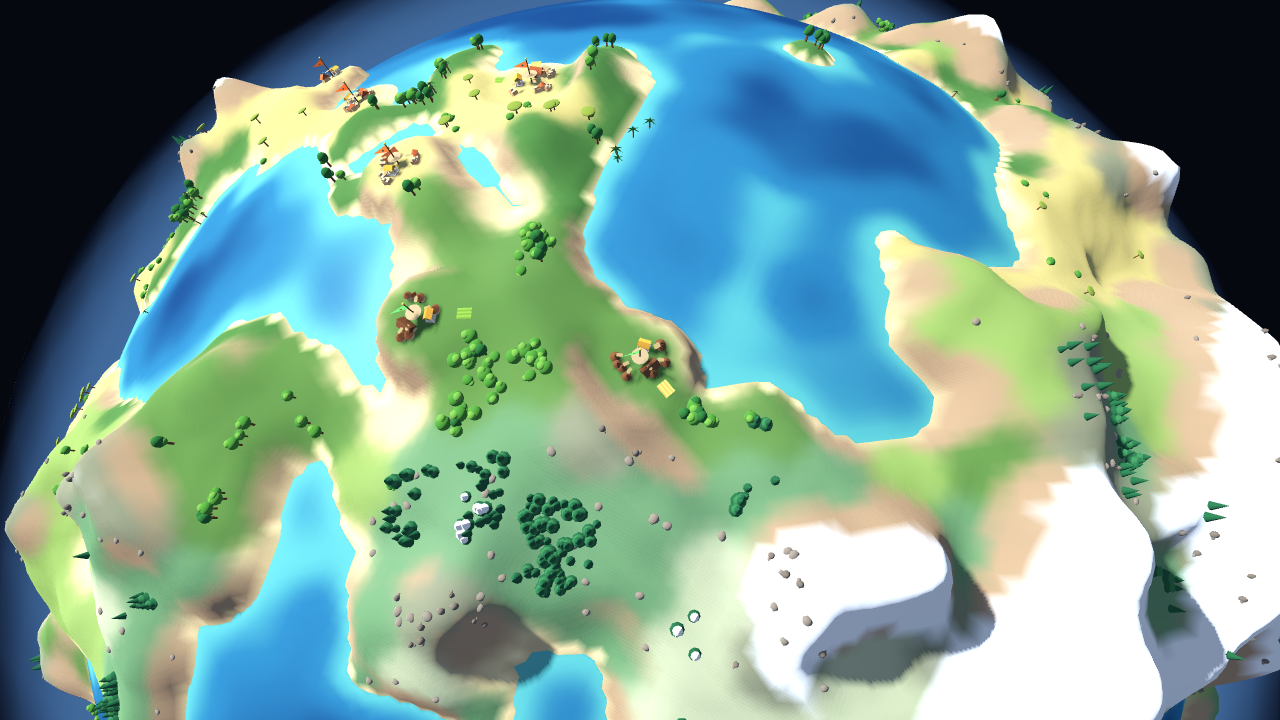
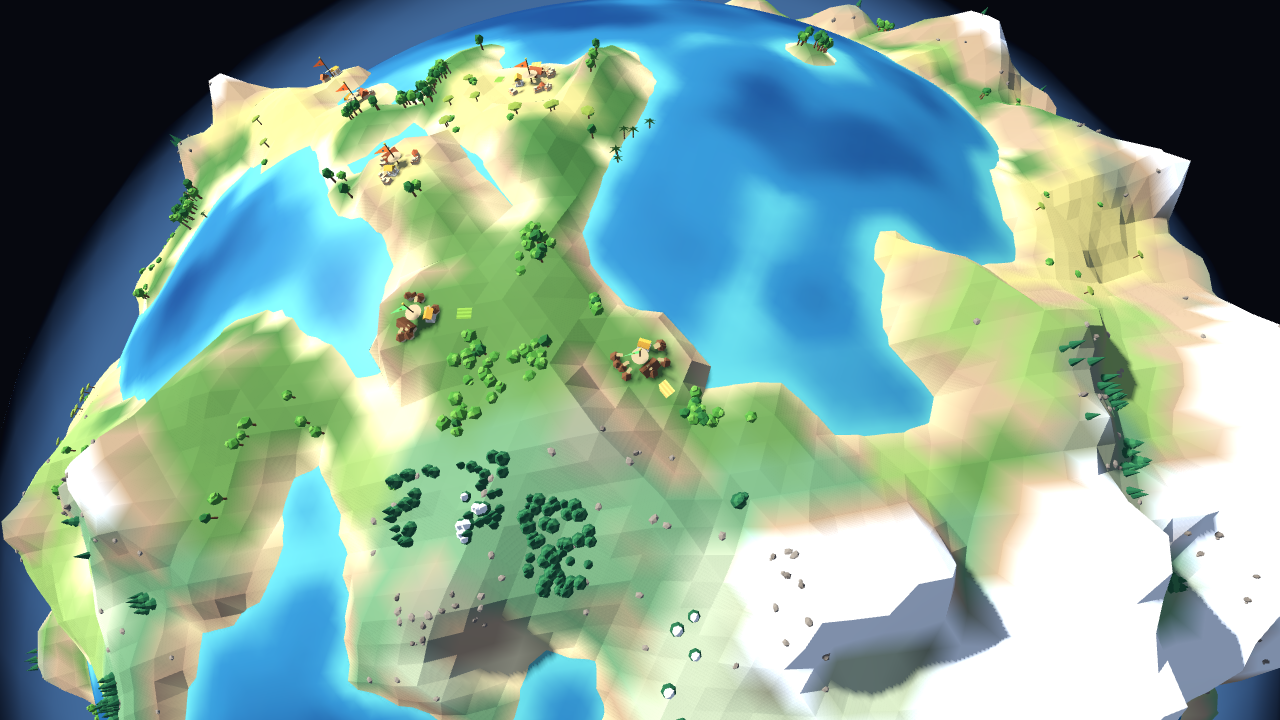
Direction artistique v4 : low poly stylisé à facettes franches
- Terre dessinée en grands plans (grille 2x plus large, normale par face),
  couleurs continues par sommet : facettes révélées par la lumière, sans mosaïque
- Lissage réduit, crêtes et sommets plus marqués ; terrasses et côtes conservées
- Arbres, rochers et bâtiments en volumes à faces planes, couleur unie par volume
- Eau lisse pour contraster avec les terres
- Comparaisons avant/après au même cadrage dans docs/captures/facettes_*.png
- Primitives de près : 443 k -> 188 k

Claude-Session: https://claude.ai/code/session_019WmNfXq92PPpko7xosD6fb

diff --git a/docs/ART_DIRECTION.md b/docs/ART_DIRECTION.md
@@ -1,7 +1,11 @@
 # Direction artistique
 
-Référence d'intention : la douceur des formes et la lisibilité des paysages de *Godus*, appliquées à notre
-planète sphérique et à notre univers d'épée et de magie. Le monde doit sembler **composé et habité** : de
+Référence d'intention : la lisibilité des paysages de *Godus*, en **low poly stylisé à facettes franches** :
+un monde sculpté, légèrement anguleux, chaleureux et lisible, à la géométrie volontaire (révision v4).
+
+**Règle des facettes** : les facettes sont révélées par l'éclairage et l'orientation des surfaces (normale par
+face), jamais par une couleur différente par triangle. Chaque volume ou région garde une couleur unie ou un
+dégradé continu par sommet ; l'eau reste lisse pour contraster avec les terres. Le monde doit sembler **composé et habité** : de
 grandes formes lisibles, peu de couleurs, des détails à leur place.
 
 ## 1. Formes du terrain
@@ -13,7 +17,8 @@ grandes formes lisibles, peu de couleurs, des détails à leur place.
 | Falaises épaisses | Contremarches et rives raides colorées en terre/roche chaude selon la pente. Le relief est exagéré (×0,11) pour que les ruptures se lisent. |
 | Plaines calmes pour les villages | Le terrain est **aplani** sous chaque village (plateau jusqu'à 1,8 R, raccord jusqu'à 2,3 R) au niveau de terrasse de son centre. |
 | Côtes sinueuses, plages propres | La côte naît de l'intersection du terrain lissé avec la sphère de mer ; le sable couvre la terre basse au contact de l'eau. |
-| La triangulation n'est pas un motif | Normales lissées (moyenne des faces voisines), couleurs par sommet sans bruit par triangle. La grille de simulation n'apparaît qu'en mode « Grille (consultation) ». |
+| Grands plans légèrement anguleux | La terre est dessinée sur une grille 2× plus large que celle des hauteurs (`FACET = 2`) avec une **normale par face** : grandes facettes, couleurs continues par sommet (pas de mosaïque). La grille de simulation n'apparaît qu'en mode « Grille (consultation) ». |
+| Arêtes franches, sommets marqués | Lissage réduit (une passe légère), crêtes en `ridge³` plus hautes. |
 
 ## 2. Palette limitée
 | Rôle | Couleur (sRGB) |
@@ -33,9 +38,10 @@ l'**aménagement** (place, abords, champs). Une modulation très lente (±4 %, b
 aplats morts, sans jamais varier d'un triangle à l'autre.
 
 ## 3. Végétation
-- **Feuillus** : tronc conique, canopée de 2 volumes arrondis lissés (2 variantes) ; **conifères** : 3 cônes
+- Tous les volumes sont **à facettes** (`facet_prism`, `facet_blob` : faces planes, couleur unie par volume).
+- **Feuillus** : tronc prismatique, canopée de 2 polyèdres irréguliers à grandes facettes (2 variantes) ; **conifères** : 3 cônes
   étagés ou 1 cône élancé ; **conifère enneigé** ; **palmier** ; **acacia** à couronne plate ; **buisson** ;
-  **rochers** arrondis ; **cactus**.
+  **rochers** polyédriques irréguliers ; **cactus**.
 - Composition : un masque de bruit (`_noise_forest`) crée des **forêts denses** (40 essais par triangle en biome
   forestier), des **bosquets** en prairie et des **clairières** là où le masque est bas. Pas d'arbre sur les
   contremarches, les plages, ni dans le plateau des villages.

diff --git a/docs/BUILD.md b/docs/BUILD.md
@@ -71,11 +71,11 @@ les temps d'image ci-dessous sont ceux d'un rendu **logiciel** et ne préjugent 
 | Vitrine de la région (baie, colline en terrasses, forêt, falaise, village), interface masquée | ✅ `tests/art_showcase.gd` : vues globale, régionale, rapprochée ×2 |
 | Raccords du terrain | ✅ par construction (sommets uniques partagés) |
 | Orientation des objets | ✅ verticale = normale de la sphère ; bâtiments tournés vers la place |
-| Construction initiale du monde visuel | ≈ 3,4 s (une fois, au chargement) — **à réduire** (fils de calcul) |
-| Modification locale du terrain | ≈ 160–180 ms |
-| Primitives par image (ombres comprises) | loin 137 k · régional 345 k · près 443 k |
-| Appels de dessin (interface 2D comprise) | loin 108 · régional 220 · près 232 |
-| Sommets du terrain / mémoire | 92 162 ; mémoire statique 78 Mo ; vidéo 30 Mo |
+| Construction initiale du monde visuel | ≈ 3,6 s (une fois, au chargement) — **à réduire** (fils de calcul) |
+| Modification locale du terrain | ≈ 110 ms |
+| Primitives par image (ombres comprises), version facettée v4 | loin 95 k · régional 171 k · près 188 k (v3 lisse : 137 k / 345 k / 443 k) |
+| Appels de dessin (interface 2D comprise) | loin 108 · régional 220 · près 233 |
+| Sommets du terrain / mémoire | 92 162 ; mémoire statique 80 Mo ; vidéo 30 Mo |
 
 À vérifier en priorité sur Android : temps d'image aux distances régionale et rapprochée. Leviers prévus si
 nécessaire : densité forestière (`_build_chunk_props`), ombres des arbres, imposteurs pour les forêts lointaines,

diff --git a/docs/DECISIONS.md b/docs/DECISIONS.md
@@ -43,6 +43,8 @@ Toute décision qui la contredit doit d'abord modifier ce fichier.
 | D33 | 2026-10-26 | Éclairage doux : soleil chaud rasant lié à la caméra, ambiance bleutée 0,55, tonemap filmique, matériaux mats, ombres floues coupées de loin, halo additif. Pas de glow, SSAO ni brouillard volumétrique. | Couleurs préservées, volumes lisibles, coût mobile. |
 | D34 | 2026-10-26 | Interface : zone de sécurité de l'écran, barre d'état à pastilles explicatives, sélecteur de vitesse avec état actif doré + libellé, rail de navigation (Pouvoirs, Foi, Peuples, Affinités, Journal, Cartes, Menu), tiroir de pouvoirs, icônes SVG intégrées (pas de glyphes Unicode). | Lisibilité et cohérence sur téléphone. |
 
+| D35 | 2026-10-26 | Révision DA v4 : **low poly stylisé à facettes franches**. Terre : normale par face sur une grille 2× plus large (grands plans), lissage réduit, crêtes plus marquées ; objets : prismes et polyèdres à faces planes, couleur unie par volume ; eau lisse. Les facettes ne sont jamais obtenues par des couleurs par triangle. | Le rendu lissé v3 était trop arrondi. Bonus : −58 % de primitives de près. |
+
 ## Hypothèses à confirmer par le commanditaire
 
 - Titre définitif du jeu (« Cit-a » = nom du dépôt, utilisé provisoirement).
